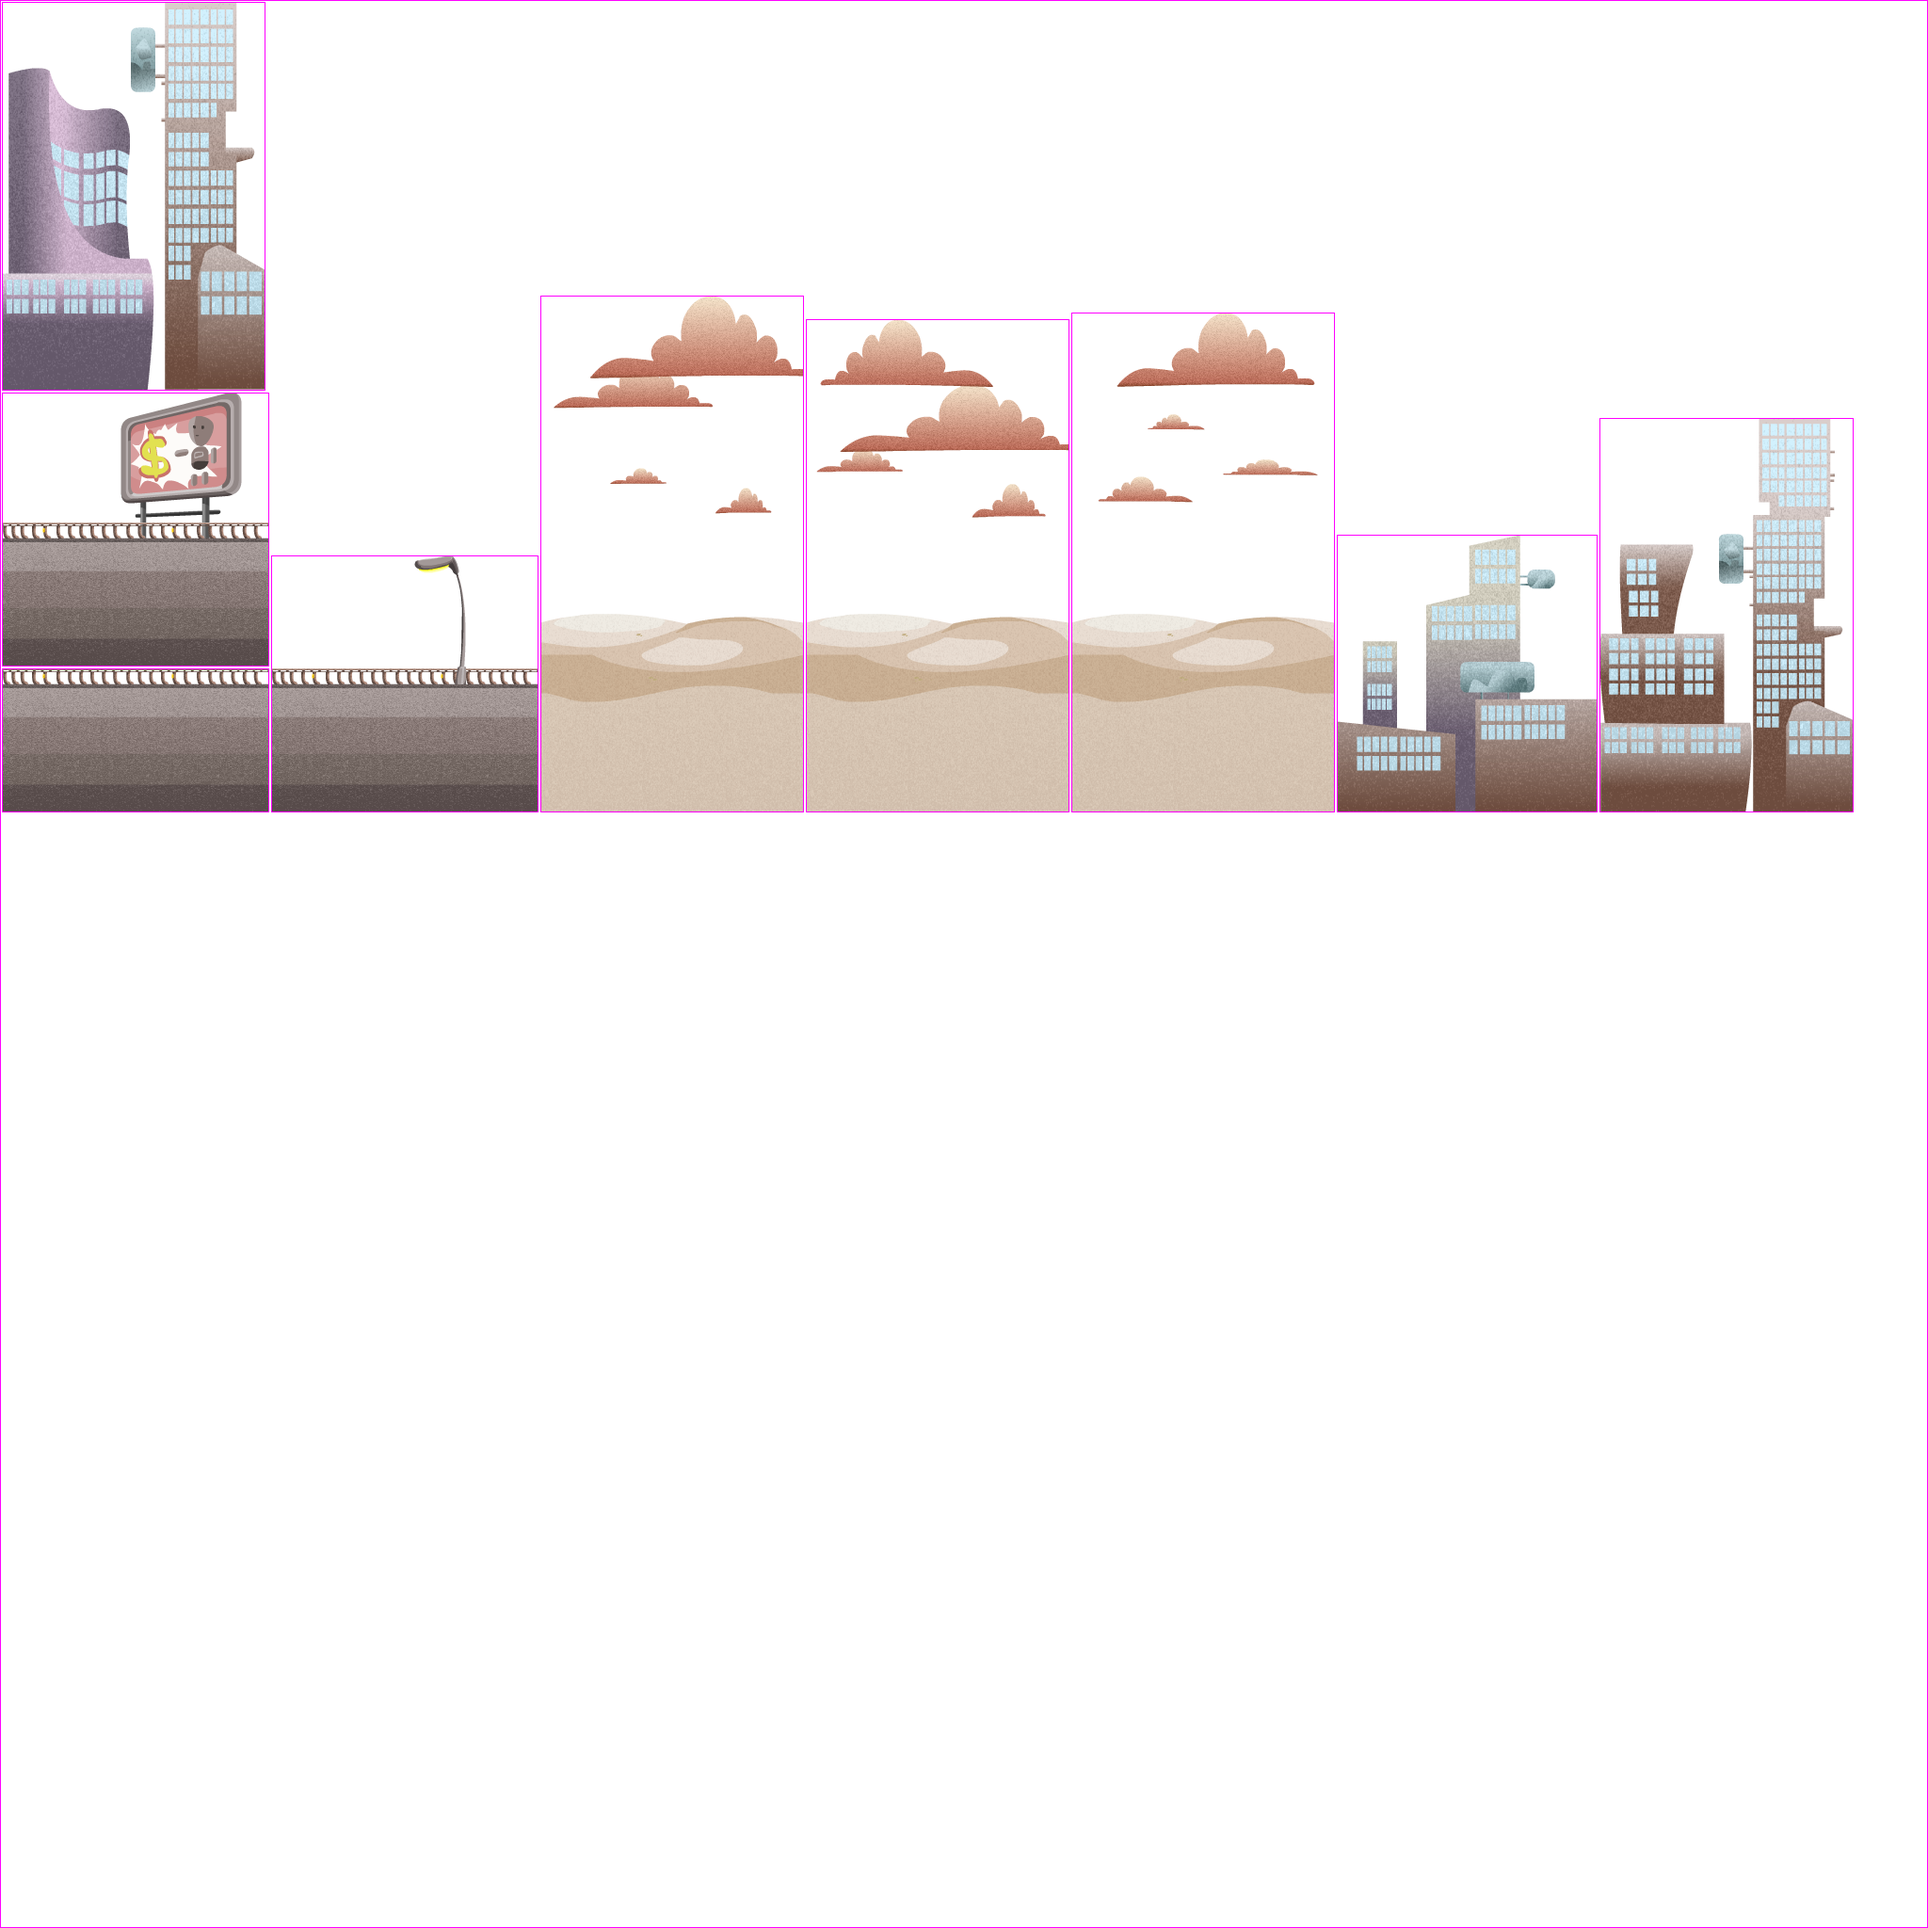
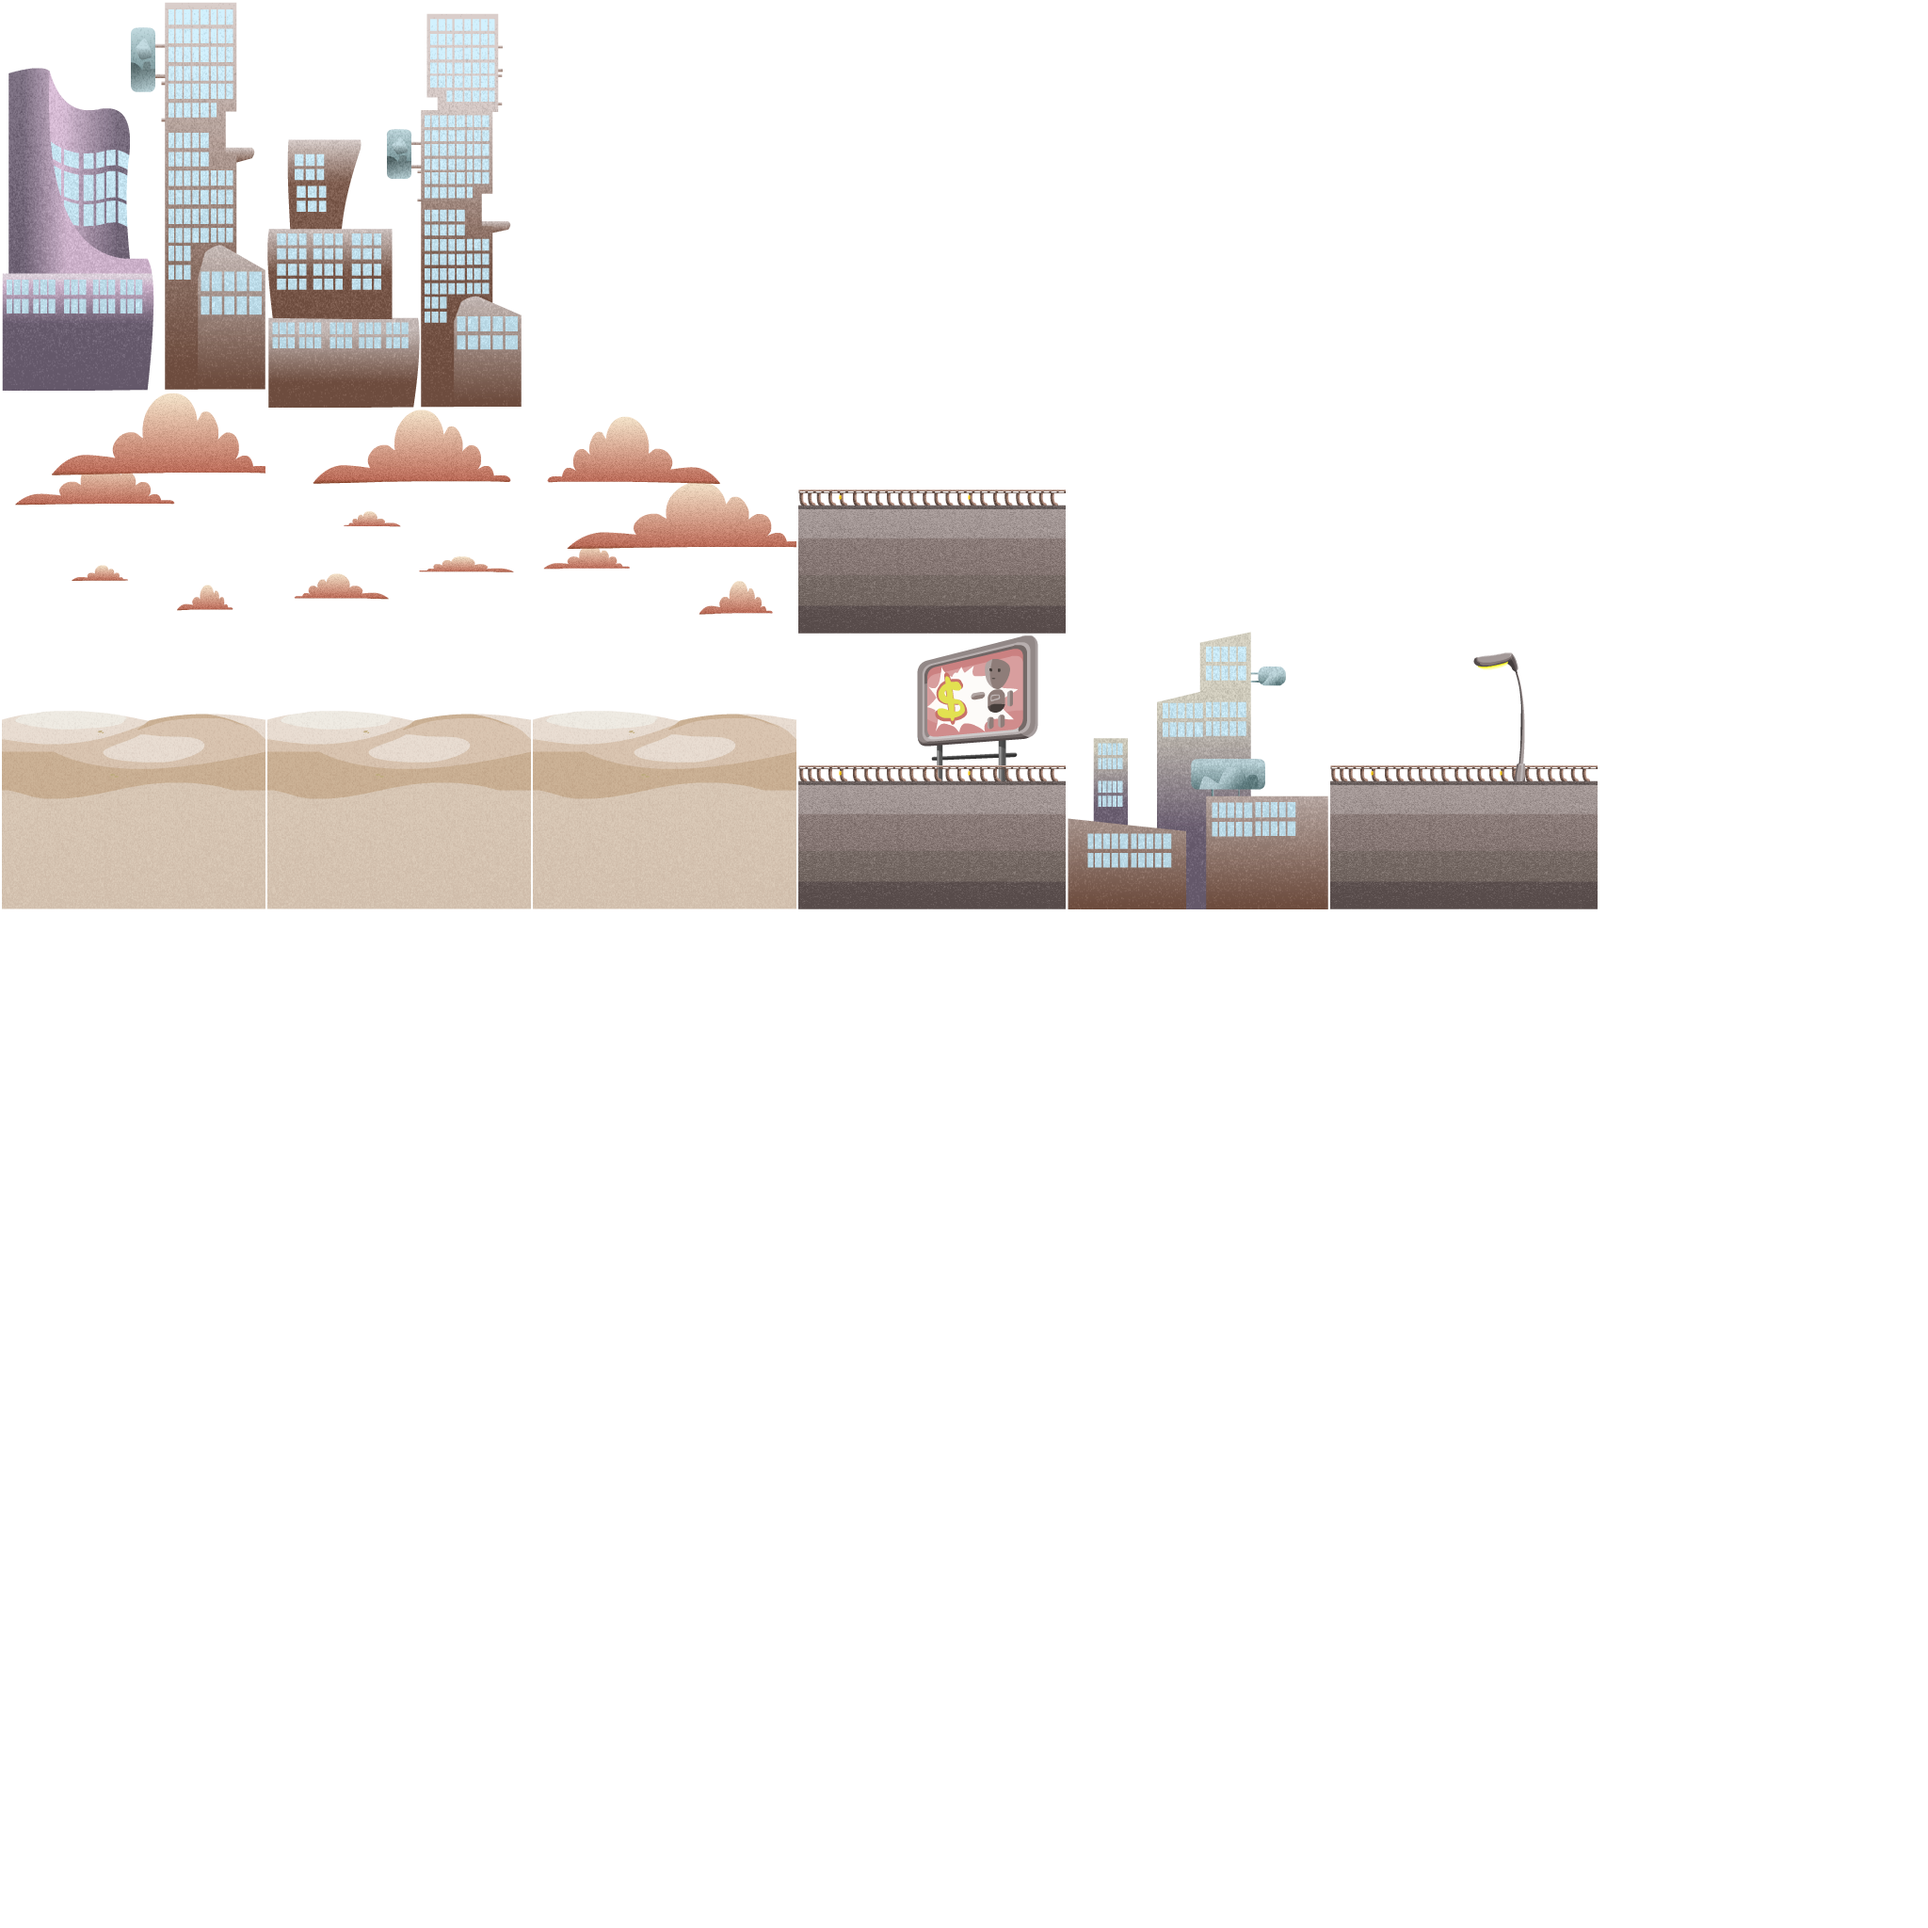
sorta there

Changed region(s): [[0.0, 0.0, 0.9688, 0.5], [0.5938, 0.1562, 0.6875, 0.25], [0.2188, 0.2812, 0.25, 0.3125]]

diff --git a/rocketeer-src/rocketeer_main.c b/rocketeer-src/rocketeer_main.c
@@ -16,9 +16,19 @@ static int RO = 0;
 void _AtlasPage_createTexture (AtlasPage* self, const char* path) {
   //TODO: figure out how to map renderObject
 	self->rendererObject = (void *)RO++;
-  // size is important!!
-	self->width = 256;
-	self->height = 256;
+
+  switch((int)self->rendererObject) {
+    case 0:
+      // size is important!!
+      self->width = 256;
+      self->height = 256;
+      break;
+    case 1:
+      // size is important!!
+      self->width = 2048;
+      self->height = 2048;
+      break;
+  }
   LOGV("_AtlasPage_createTexture: %s\n", path);
 }
 
@@ -188,6 +198,53 @@ int impl_draw() {
 
     // !!!!!!!!!
 
+
+    // !!!!!!
+
+    if (1) {
+      qwqz_batch_clear(&qwqz_engine->m_Batches[0]);
+
+      bgsSkeleton->root->scaleX = 1.0;// + (2.0 * sinf(qwqz_engine->m_Timers[0].m_SimulationTime * 0.01));
+      bgsSkeleton->root->scaleY = 1.0;// + (2.0 * sinf(qwqz_engine->m_Timers[0].m_SimulationTime * 0.01));
+
+      AnimationState_update(bgsState, qwqz_engine->m_Timers[0].step * 0.1);
+      AnimationState_apply(bgsState, bgsSkeleton);
+      Skeleton_updateWorldTransform(bgsSkeleton);
+
+
+      for (int i=0; i<bgsSkeleton->slotCount; i++) {
+        Slot *s = bgsSkeleton->drawOrder[i];
+        RegionAttachment *ra = (RegionAttachment *)s->attachment;
+        if (s->attachment->type == ATTACHMENT_REGION) {
+          int spd = (i / 3) + 1;
+          LOGV("spd: %d\n", spd);
+          int scx = -(int)(qwqz_engine->m_Timers[0].m_SimulationTime * 200 * spd) % 852;
+          RegionAttachment_computeVertices(ra, scx, 0.0, s->bone, verticeBuffer);
+          qwqz_batch_add(&qwqz_engine->m_Batches[0], 0, verticeBuffer, NULL, ra->uvs);
+        }
+
+        if (i > 4) {
+          break;
+        }
+      }
+
+      glUseProgram(qwqz_engine->m_Linkages[0].m_Program);
+      glUniform2f(qwqz_engine->m_Linkages[0].g_ResolutionUniform, qwqz_engine->m_ScreenWidth, qwqz_engine->m_ScreenHeight);
+      glUniform1f(qwqz_engine->m_Linkages[0].g_TimeUniform, qwqz_engine->m_Timers[0].m_SimulationTime);
+
+      glUniform1i(qwqz_engine->m_Linkages[0].g_TextureUniform, 1);
+
+
+      int bgw = 852;
+      int sx = -bgw / 2;
+      for (int i=0; i<2; i++) {
+        translate(&qwqz_engine->m_Linkages[0], NULL, sx, 0, 0);
+        qwqz_batch_render(qwqz_engine, &qwqz_engine->m_Batches[0]);
+        translate(&qwqz_engine->m_Linkages[0], NULL, -sx, 0, 0);
+        sx += bgw;
+      }
+    }
+
     if (1) {
       qwqz_batch_clear(&qwqz_engine->m_Batches[0]);
 
@@ -215,37 +272,7 @@ int impl_draw() {
 
       translate(&qwqz_engine->m_Linkages[0], NULL, 0, 0, 0);
       qwqz_batch_render(qwqz_engine, &qwqz_engine->m_Batches[0]);
-    }
 
-    // !!!!!!
-
-    if (1) {
-      qwqz_batch_clear(&qwqz_engine->m_Batches[0]);
-
-      bgsSkeleton->root->scaleX = 1.0;// + (2.0 * sinf(qwqz_engine->m_Timers[0].m_SimulationTime * 0.01));
-      bgsSkeleton->root->scaleY = 1.0;// + (2.0 * sinf(qwqz_engine->m_Timers[0].m_SimulationTime * 0.01));
-
-      AnimationState_update(bgsState, qwqz_engine->m_Timers[0].step * 0.1);
-      AnimationState_apply(bgsState, bgsSkeleton);
-      Skeleton_updateWorldTransform(bgsSkeleton);
-
-      for (int i=0; i<bgsSkeleton->slotCount; i++) {
-        Slot *s = bgsSkeleton->drawOrder[i];
-        RegionAttachment *ra = (RegionAttachment *)s->attachment;
-        if (s->attachment->type == ATTACHMENT_REGION) {
-          RegionAttachment_computeVertices(ra, 0.0, 0.0, s->bone, verticeBuffer);
-          qwqz_batch_add(&qwqz_engine->m_Batches[0], 0, verticeBuffer, NULL, ra->uvs);
-        }
-      }
-
-      glUseProgram(qwqz_engine->m_Linkages[0].m_Program);
-      glUniform2f(qwqz_engine->m_Linkages[0].g_ResolutionUniform, qwqz_engine->m_ScreenWidth, qwqz_engine->m_ScreenHeight);
-      glUniform1f(qwqz_engine->m_Linkages[0].g_TimeUniform, qwqz_engine->m_Timers[0].m_SimulationTime);
-
-      glUniform1i(qwqz_engine->m_Linkages[0].g_TextureUniform, 1);
-
-      translate(&qwqz_engine->m_Linkages[0], NULL, 0, 0, 0);
-      qwqz_batch_render(qwqz_engine, &qwqz_engine->m_Batches[0]);
     }
 
   }
@@ -381,6 +408,7 @@ int impl_main(int argc, char** argv) {
       bgsSkeleton = Skeleton_create(skeletonData2);
       bgsStateData = AnimationStateData_create(skeletonData2);
       bgsState = AnimationState_create(bgsStateData);
+      AnimationState_setAnimationByName(bgsState, "default", 1);
     }
 
     v = qwqz_compile(GL_VERTEX_SHADER, "assets/shaders/spine.vsh");
